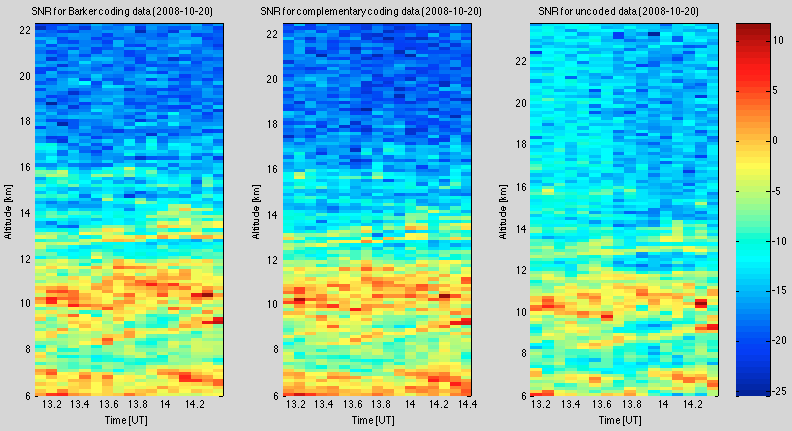
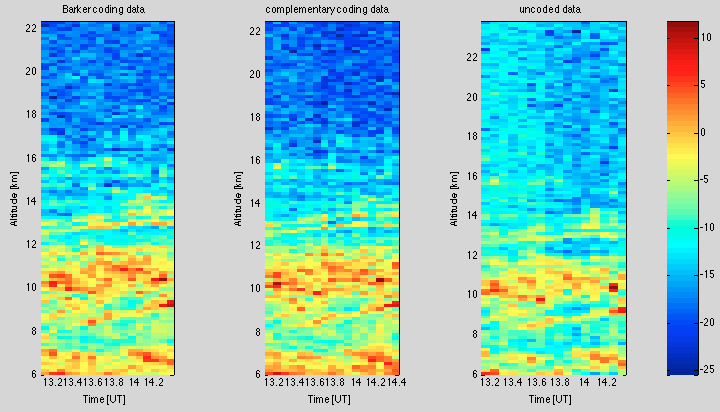
advanced plotting

diff --git a/Optics & Radar -based observations/Assignment 2/report.tex b/Optics & Radar -based observations/Assignment 2/report.tex
@@ -160,8 +160,8 @@ The height resolution obtainable with atmospheric radar is limited by the need t
 
 \begin{figure}[htb]
 \centering
-\includegraphics[width=\textwidth]{Figures/height_res.png}
-\caption{SNR data for 150 m and 1200 m height resolution.}
+\includegraphics[width=0.7\textwidth]{Figures/height_res.png}
+\caption{SNR data for 150 m and 1200 m height resolutions.}
 \label{fig:height_res}
 \end{figure}
 
@@ -173,58 +173,24 @@ The height resolution obtainable with atmospheric radar is limited by the need t
 
 \begin{figure}[htb]
 \centering
-\includegraphics[width=\textwidth]{Figures/SNR_coding.png}
+\includegraphics[width=0.9\textwidth]{Figures/SNR_coding.png}
 \caption{SNR for Barker coded, complementary coded and uncoded data.}
 \label{fig:SNR_coding}
 \end{figure}
 
-
-
 \begin{figure}[htb]
-\begin{minipage}[t]{0.5\linewidth}
 \centering
-\includegraphics[width=8cm]{Figures/wind_dir_barker.png}
-\caption{Horizontal wind direction with Barker coding data.}
-\label{fig:wind_dir_barker}
-\end{minipage}
-\begin{minipage}[t]{0.5\linewidth}
-\centering
-\includegraphics[width=8cm]{Figures/wind_vel_barker.png}
-\caption{Horizontal wind velocity with Barker coding data.}
-\label{fig:wind_vel_barker}
-\end{minipage}
+\includegraphics[width=0.9\textwidth]{Figures/direction.png}
+\caption{Horizontal wind direction [deg] for Barker coded, complementary coded and uncoded data.}
+\label{fig:direction}
 \end{figure}
 
 \begin{figure}[htb]
-\begin{minipage}[t]{0.5\linewidth}
 \centering
-\includegraphics[width=8cm]{Figures/wind_dir_complementary.png}
-\caption{Horizontal wind direction with complementary coding data.}
-\label{fig:wind_dir_complementary}
-\end{minipage}
-\begin{minipage}[t]{0.5\linewidth}
-\centering
-\includegraphics[width=8cm]{Figures/wind_vel_complementary.png}
-\caption{Horizontal wind velocity with complementary coding data.}
-\label{fig:wind_vel_complementary}
-\end{minipage}
+\includegraphics[width=0.9\textwidth]{Figures/velocity.png}
+\caption{Horizontal wind velocity [m/s] for Barker coded, complementary coded and uncoded data.}
+\label{fig:direction}
 \end{figure}
-
-\begin{figure}[htb]
-\begin{minipage}[t]{0.5\linewidth}
-\centering
-\includegraphics[width=8cm]{Figures/wind_dir_uncoded.png}
-\caption{Horizontal wind direction with uncoded data.}
-\label{fig:wind_dir_uncoded}
-\end{minipage}
-\begin{minipage}[t]{0.5\linewidth}
-\centering
-\includegraphics[width=8cm]{Figures/wind_vel_uncoded.png}
-\caption{Horizontal wind velocity with uncoded data.}
-\label{fig:wind_vel_uncoded}
-\end{minipage}
-\end{figure}
-
 
 %----------------------------------------------------------------------------------------
 %	SECTION 4. REFERENCES

diff --git a/Optics & Radar -based observations/Assignment 2/plotWind.m b/Optics & Radar -based observations/Assignment 2/plotWind.m
@@ -1,4 +1,4 @@
-function plotWind(data, repeat, coding_type, date)
+function plotWind(data, repeat, coding_type, date, subplots)
 
 %% structure of a data:
 %  - UT
@@ -15,7 +15,7 @@ altitude = data(1:repeat, 2);
 loop = 1;
 cnt = 1;
 for i = 1:length(data);
-    zonal_wind = data(i, 5); 
+    zonal_wind = data(i, 5);
     meridional_wind = data(i, 6);
     horizontal_wind(loop, cnt) = hypotenuse(zonal_wind, meridional_wind);
     wind_direction(loop, cnt) = radToDeg(atan((meridional_wind)/(zonal_wind)));
@@ -26,23 +26,53 @@ for i = 1:length(data);
     end;
 end;
 
-figure
+
+fig = figure(1001);
+axes = findall(fig,'type','axes');
+num = length(axes);
+subplot(1, subplots, num+1);
 pcolor(time, altitude, horizontal_wind)
 shading flat
 colormap jet
-title(['Horizontal Wind Velocity [m/s] with ', coding_type, ' data (', date, ')'])
 ylabel('Altitude [km]')
 xlabel('Time [UT]')
-colorbar('location', 'EastOutside')
+title([coding_type, ' data'])
+axes = findall(fig,'type','axes');
+num = length(axes);
 
-figure
+if num == subplots
+    set(fig, 'Name', ['Horizontal Wind Velocity [m/s] (', date, ')']);  %set figure title
+    color = colorbar;   %Insert colorbar
+    set(color, 'Position', [.924 .11 .0381 .8150])
+    for i = 1:num       %Narrow diagrams
+        pos = get(axes(i), 'Position');
+        set(axes(i), 'Position', [pos(1) pos(2) 0.85*pos(3) pos(4)]);
+    end;
+end
+
+fig = figure(1002);
+axes = findall(fig,'type','axes');
+num = length(axes);
+subplot(1, subplots, num+1);
 pcolor(time, altitude, wind_direction)
 shading flat
 colormap jet
-title(['Horizontal Wind Direction [deg] with ', coding_type, ' data (', date, ')'])
 ylabel('Altitude [km]')
 xlabel('Time [UT]')
-colorbar('location', 'EastOutside')
+title([coding_type, ' data'])
+axes = findall(fig,'type','axes');
+num = length(axes);
+
+if num == subplots
+    set(fig, 'Name', ['Horizontal Wind Direction [deg] (', date, ')']);  %set figure title
+    color = colorbar;   %Insert colorbar
+    set(color, 'Position', [.924 .11 .0381 .8150])
+    for i = 1:num       %Narrow diagrams
+        pos = get(axes(i), 'Position');
+        set(axes(i), 'Position', [pos(1) pos(2) 0.85*pos(3) pos(4)]);
+    end;
+end
+
 
 end
 

diff --git a/Optics & Radar -based observations/Assignment 2/Part2B.m b/Optics & Radar -based observations/Assignment 2/Part2B.m
@@ -10,31 +10,11 @@ data_4 = importdata('Codes/TXT_20081020_test4.FCA');
 data_5 = importdata('Codes/TXT_20081020_test5.FCA');
 
 %% Compare coding techniques
-ax(1) = plotSNR(data_3, data_3_len, 'SNR for Barker coding data (2008-10-20)', 1,3,1);
-ax(2) = plotSNR(data_4, data_4_len, 'SNR for complementary coding data (2008-10-20)', 1,3,2);
-ax(3) = plotSNR(data_5, data_5_len, 'SNR for uncoded data (2008-10-20)', 1,3,3);
-
-h = colorbar;
-set(h, 'Position', [.924 .11 .0381 .8150])
-for i = 1:3
-    pos = get(ax(i), 'Position');
-    set(ax(i), 'Position', [pos(1) pos(2) 0.85*pos(3) pos(4)]);
-end;
-
-
-input('Press any key to continue...');
-close all;
+plotSNR(data_3, data_3_len, 'Barker coding data', '2008-10-20', 3);
+plotSNR(data_4, data_4_len, 'complementary coding data', '2008-10-20', 3);
+plotSNR(data_5, data_5_len, 'uncoded data', '2008-10-20', 3);
 
 %% Estimate horizontal wind values and directions
-
-plotWind(data_3, data_3_len, 'Barker coding', '2008-10-20');
-
-input('Press any key to continue...');
-close all;
-
-plotWind(data_4, data_4_len, 'complementary coding', '2008-10-20');
-
-input('Press any key to continue...');
-close all;
-
-plotWind(data_5, data_5_len, 'uncoded', '2008-10-20');
+plotWind(data_3, data_3_len, 'Barker coding', '2008-10-20', 3);
+plotWind(data_4, data_4_len, 'complementary coding', '2008-10-20', 3);
+plotWind(data_5, data_5_len, 'uncoded', '2008-10-20', 3);

diff --git a/Optics & Radar -based observations/Assignment 2/plotSNR.m b/Optics & Radar -based observations/Assignment 2/plotSNR.m
@@ -1,4 +1,4 @@
-function[fig] = plotSNR(data, repeat, plot_title, subplot_arg1, subplot_arg2, subplot_arg3)
+function plotSNR(data, repeat, plot_title, date, subplots)
 
 %% structure of a data:
 %  - UT
@@ -19,12 +19,27 @@ for i = 1:length(time);
     SNR(:, i) = SNR_alt;                         %2d matrix
 end;
 
-subplot(subplot_arg1, subplot_arg2, subplot_arg3);
-fig = pcolor(time, altitude, SNR)
+fig = figure(1000);
+axes = findall(fig,'type','axes');
+num = length(axes);
+subplot(1, subplots, num+1);
+pcolor(time, altitude, SNR);
 shading flat
 colormap jet
-title(plot_title)
 ylabel('Altitude [km]')
 xlabel('Time [UT]')
+title(plot_title)
+axes = findall(fig,'type','axes');
+num = length(axes);
+
+if num == subplots
+    set(fig, 'Name', ['SNR (', date, ')']);  %set figure title
+    color = colorbar;   %Insert colorbar
+    set(color, 'Position', [.924 .11 .0381 .8150])
+    for i = 1:num       %Narrow diagrams
+        pos = get(axes(i), 'Position');
+        set(axes(i), 'Position', [pos(1) pos(2) 0.85*pos(3) pos(4)]);
+    end;
+end
 
 end

diff --git a/Optics & Radar -based observations/Assignment 2/Part2A.m b/Optics & Radar -based observations/Assignment 2/Part2A.m
@@ -7,13 +7,5 @@ data_2_len = 15;
 data_1 = importdata('Height resolution/TXT_20081020_test1.FCA');
 data_2 = importdata('Height resolution/TXT_20081020_test2.FCA');
 
-figure
-ax(1) = plotSNR(data_1, data_1_len, 'SNR for a 150 m Height Resolution (2008-10-20)', 1,2,1);
-ax(2) = plotSNR(data_2, data_2_len, 'SNR for a 1200 m Height Resolution (2008-10-20)', 1,2,2);
-
-h = colorbar;
-set(h, 'Position', [.924 .11 .0381 .8150])
-for i = 1:2
-    pos = get(ax(i), 'Position');
-    set(ax(i), 'Position', [pos(1) pos(2) 0.85*pos(3) pos(4)]);
-end;
+plotSNR(data_1, data_1_len, '150 m Height Resolution', '2008-10-20', 2);
+plotSNR(data_2, data_2_len, '1200 m Height Resolution', '2008-10-20', 2);
